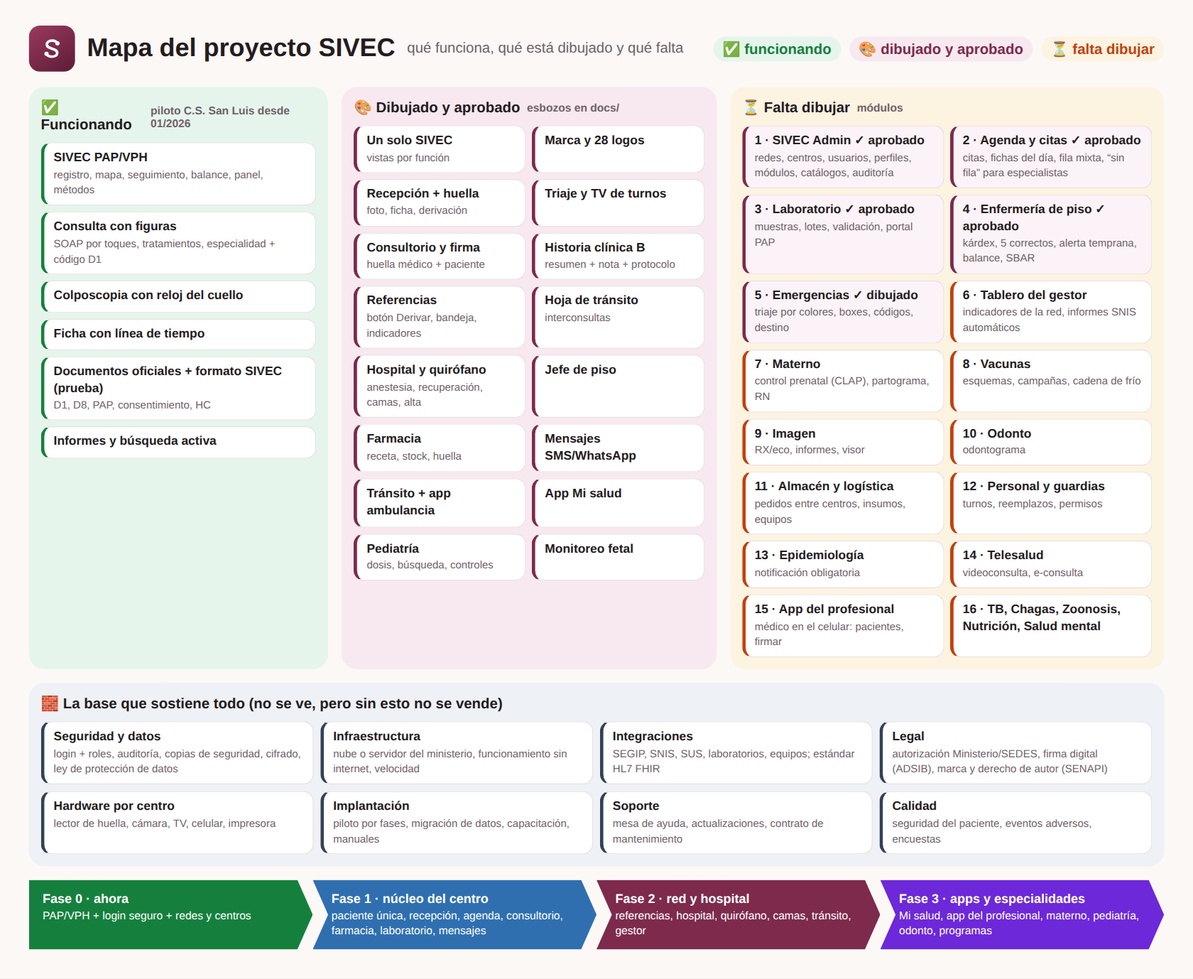
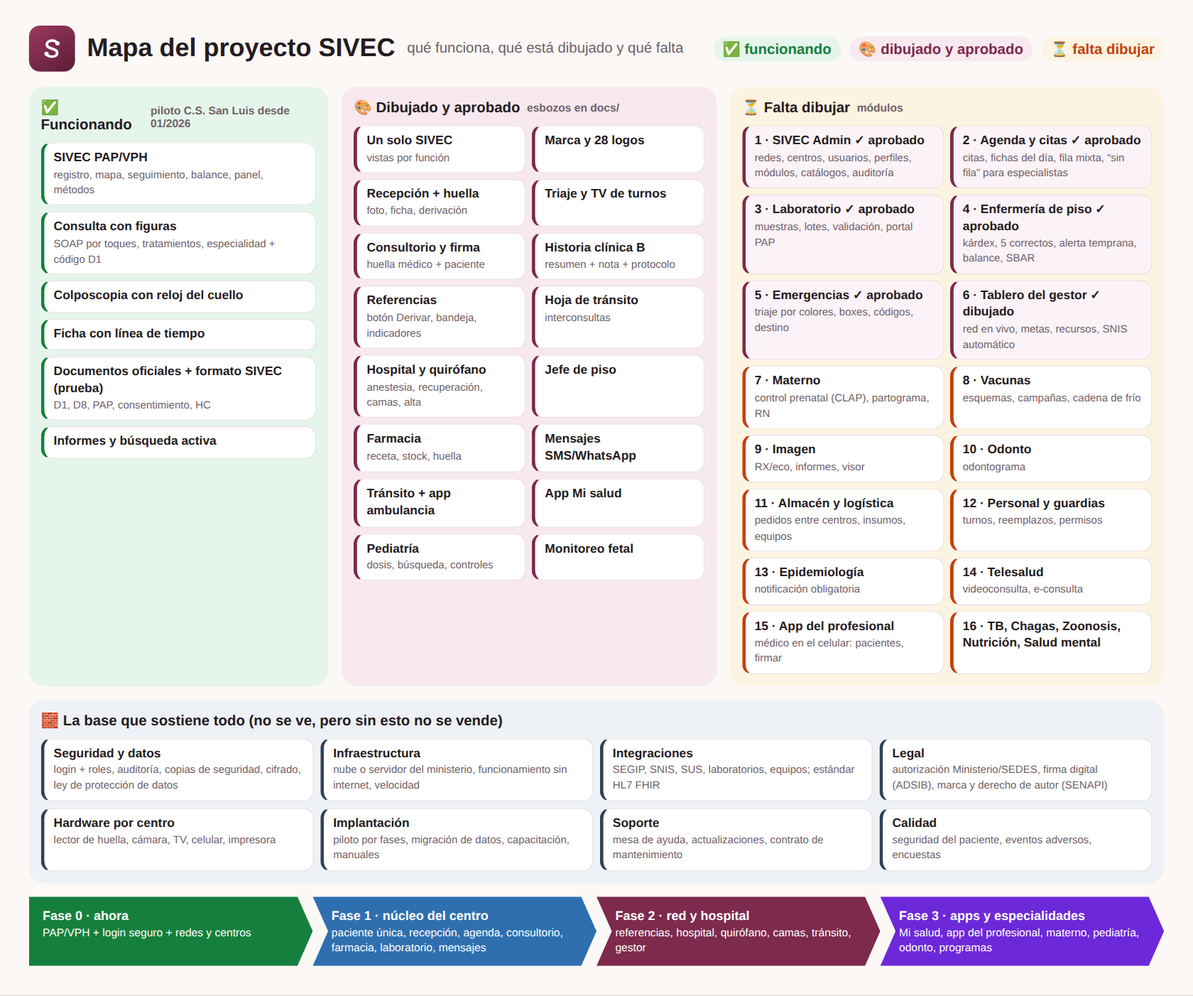
docs: módulo 6 Tablero del gestor de red (8 pantallas); Emergencias aprobado
Claude-Session: https://claude.ai/code/session_015MG6VeavRZnDbjYZyzDjvL

diff --git a/docs/esboco-gestor.html b/docs/esboco-gestor.html
@@ -1,0 +1,363 @@
+<!doctype html>
+<html lang="es">
+<head>
+<meta charset="utf-8">
+<meta name="viewport" content="width=device-width, initial-scale=1">
+<title>SIVEC Gestor de red</title>
+<link href="https://fonts.googleapis.com/css2?family=Source+Sans+3:wght@400;600;700;800;900&display=swap" rel="stylesheet">
+<style>
+  :root { --wine:#7d2a4c; --wine-d:#5a1c36; --ink:#2d2429; --soft:#7a6a71; --line:#eadde3; --paper:#faf6f4; --tint:#f7e9ef;
+    --n1:#2f6fb0; --n2:#0e7490; --n3:#7c3aed; --n4:#b4235a; --ok:#15803d; --okbg:#dcf3e5; --warn:#8a5a00; --warnbg:#fdf0d5; --bad:#991b1b; --badbg:#fde2e2; }
+  * { box-sizing:border-box; }
+  body { margin:0; background:#e8e2e5; font-family:"Source Sans 3","Segoe UI",Arial,sans-serif; color:var(--ink); }
+  .topbar { position:sticky; top:0; z-index:5; background:#2a1720; color:#fff; display:flex; flex-wrap:wrap; gap:8px; align-items:center; padding:12px 16px; }
+  .topbar b { margin-right:6px; font-size:15px; }
+  .tab { font:inherit; font-size:14px; font-weight:600; border:1px solid #6b4a58; background:transparent; color:#fff; border-radius:999px; padding:6px 14px; cursor:pointer; }
+  .tab.on { background:#fff; color:var(--wine-d); border-color:#fff; }
+  .warn { max-width:1100px; margin:14px auto 0; background:#fff7e0; border:1px solid #ecd9a0; border-radius:10px; padding:10px 14px; font-size:14px; color:#5b4712; }
+  .scr { display:none; max-width:1100px; margin:14px auto 30px; background:var(--paper); border-radius:14px; overflow:hidden; box-shadow:0 6px 28px rgba(0,0,0,.14); }
+  .scr.on { display:block; }
+  .app { background:linear-gradient(135deg,#6d2142,#9c3a5f); color:#fff; display:flex; align-items:center; justify-content:space-between; padding:14px 22px; }
+  .app .brand { font-weight:800; font-size:20px; letter-spacing:.04em; } .app .brand span { font-size:11px; background:#fff; color:var(--wine-d); border-radius:999px; padding:2px 8px; margin-left:8px; vertical-align:3px; letter-spacing:.08em; }
+  .app .who { font-size:14px; opacity:.95; }
+  .body { padding:18px 22px 22px; }
+  h2 { margin:0 0 4px; font-size:20px; } .sub { color:var(--soft); font-size:14px; margin-bottom:14px; }
+  .card { background:#fff; border:1px solid var(--line); border-radius:12px; padding:14px 16px; }
+  .cols { display:grid; gap:14px; } .c2 { grid-template-columns:1fr 1fr; } .c3 { grid-template-columns:1fr 1fr 1fr; } .c21 { grid-template-columns:1.6fr 1fr; }
+  .lbl { font-size:11.5px; font-weight:700; letter-spacing:.05em; text-transform:uppercase; color:var(--soft); margin:10px 0 5px; }
+  .lbl:first-child { margin-top:0; }
+  .chips { display:flex; flex-wrap:wrap; gap:6px; }
+  .chip { font-size:13px; padding:5px 11px; border-radius:999px; border:1px solid var(--line); background:#fff; }
+  .chip.on { background:var(--tint); border-color:var(--wine); color:var(--wine-d); font-weight:700; }
+  .inp { border:1px solid var(--line); border-radius:8px; padding:8px 10px; font-size:13.5px; background:#fff; min-height:36px; }
+  .inp.tall { min-height:62px; line-height:1.45; }
+  .pri { display:grid; grid-template-columns:repeat(4,1fr); gap:8px; }
+  .pri div { border:1px solid var(--line); border-radius:10px; padding:8px 10px; font-size:12.5px; background:#fff; }
+  .pri div b { display:block; font-size:14px; } .pri div.on { border:2px solid var(--wine); background:var(--tint); }
+  .dot { display:inline-block; width:10px; height:10px; border-radius:50%; margin-right:6px; vertical-align:0; }
+  .auto { background:#f3f7fb; border:1px dashed #b9cde3; border-radius:10px; padding:10px 12px; font-size:13px; line-height:1.55; }
+  .auto b { color:#1e4f8a; }
+  .att { display:flex; flex-wrap:wrap; gap:6px; margin-top:6px; } .att span { font-size:12.5px; background:#fff; border:1px solid var(--line); border-radius:8px; padding:4px 9px; }
+  .btn { display:inline-flex; align-items:center; gap:6px; font:inherit; font-size:13.5px; font-weight:700; border-radius:9px; padding:8px 14px; border:1px solid var(--line); background:#fff; color:var(--ink); }
+  .btn.p { background:var(--wine); border-color:var(--wine); color:#fff; } .btn.g { background:var(--ok); border-color:var(--ok); color:#fff; }
+  .row { display:flex; gap:8px; flex-wrap:wrap; align-items:center; }
+  .fp { width:26px; height:30px; vertical-align:middle; }
+  table.l { width:100%; border-collapse:collapse; font-size:13.5px; background:#fff; border-radius:12px; overflow:hidden; }
+  table.l th { text-align:left; font-size:11px; letter-spacing:.05em; text-transform:uppercase; color:var(--soft); padding:9px 10px; border-bottom:1px solid var(--line); background:#fff; }
+  table.l td { padding:10px; border-bottom:1px solid var(--line); vertical-align:middle; }
+  .st { font-size:11.5px; font-weight:700; border-radius:999px; padding:2px 9px; white-space:nowrap; }
+  .st.bad { background:var(--badbg); color:var(--bad); } .st.warn { background:var(--warnbg); color:var(--warn); } .st.ok { background:var(--okbg); color:var(--ok); } .st.info { background:#e0ecfa; color:#1e4f8a; } .st.mut { background:#eee; color:#555; }
+  .lvl { font-size:11px; font-weight:800; color:#fff; border-radius:6px; padding:2px 7px; }
+  .mini { font-size:12px; color:var(--soft); }
+  .note { max-width:1100px; margin:-16px auto 30px; background:#fff; border-radius:10px; padding:12px 16px; font-size:14px; line-height:1.5; color:#3b3035; border-left:4px solid var(--wine); }
+  /* flujo */
+  .levels { display:grid; grid-template-columns:repeat(4,1fr); gap:0; position:relative; margin:6px 0 4px; }
+  .lv { text-align:center; padding:0 8px; }
+  .lv .ic { width:74px; height:74px; border-radius:18px; margin:0 auto 6px; display:flex; align-items:center; justify-content:center; font-size:32px; color:#fff; }
+  .lv b { display:block; font-size:15px; } .lv span { font-size:12.5px; color:var(--soft); }
+  .arrows { position:relative; height:74px; margin-top:-120px; margin-bottom:60px; pointer-events:none; }
+  .loop { display:grid; grid-template-columns:repeat(7,1fr); gap:6px; margin-top:6px; }
+  .loop div { background:#fff; border:1px solid var(--line); border-radius:10px; padding:8px; font-size:12.3px; text-align:center; position:relative; }
+  .loop div b { display:block; font-size:13px; } .loop i { font-style:normal; display:block; font-size:18px; }
+  .loop div:not(:last-child)::after { content:"›"; position:absolute; right:-10px; top:50%; transform:translateY(-50%); color:var(--soft); font-size:18px; }
+  .world { display:grid; grid-template-columns:repeat(5,1fr); gap:8px; }
+  .world div { background:#fff; border:1px solid var(--line); border-radius:10px; padding:9px 10px; font-size:12.3px; line-height:1.4; }
+  .world b { display:block; font-size:13px; color:var(--wine-d); }
+  /* seguimiento */
+  .steps { display:grid; grid-template-columns:repeat(7,1fr); gap:0; margin:8px 0 4px; }
+  .steps div { text-align:center; font-size:12px; position:relative; padding-top:30px; }
+  .steps div::before { content:""; position:absolute; top:9px; left:0; right:0; height:4px; background:#e3d6dc; }
+  .steps div:first-child::before { left:50%; } .steps div:last-child::before { right:50%; }
+  .steps div.done::before { background:var(--ok); } .steps div.cur::before { background:linear-gradient(90deg,var(--ok) 50%,#e3d6dc 50%); }
+  .steps i { position:absolute; top:0; left:50%; transform:translateX(-50%); width:22px; height:22px; border-radius:50%; background:#e3d6dc; color:#fff; font-style:normal; font-size:12px; font-weight:800; display:flex; align-items:center; justify-content:center; border:3px solid var(--paper); }
+  .steps .done i { background:var(--ok); } .steps .cur i { background:var(--wine); box-shadow:0 0 0 4px rgba(125,42,76,.18); }
+  .steps b { display:block; font-size:12.5px; } .steps small { color:var(--soft); }
+  .tl { border-left:3px solid var(--line); margin-left:8px; padding-left:14px; }
+  .tl div { position:relative; font-size:13px; margin-bottom:10px; line-height:1.4; }
+  .tl div::before { content:""; position:absolute; left:-21px; top:4px; width:11px; height:11px; border-radius:50%; background:var(--c,#999); border:2px solid #fff; }
+  .kpi { display:grid; grid-template-columns:repeat(4,1fr); gap:10px; }
+  .kpi div { background:#fff; border:1px solid var(--line); border-radius:12px; padding:12px 14px; }
+  .kpi small { display:block; font-size:12px; color:var(--soft); font-weight:600; } .kpi b { font-size:28px; letter-spacing:-.01em; } .kpi span { font-size:12px; color:var(--soft); }
+  .bars div.r { display:grid; grid-template-columns:170px 1fr 54px; align-items:center; gap:10px; font-size:13px; margin:7px 0; }
+  .bars .trk { height:14px; border-radius:0 4px 4px 0; background:transparent; position:relative; }
+  .bars .fill { height:14px; border-radius:0 4px 4px 0; background:var(--wine); }
+  .bars .ref { position:absolute; top:-3px; bottom:-3px; width:2px; background:#2d2429; }
+  .bars .v { font-weight:700; text-align:right; }
+  .alertc { border-left:4px solid var(--bad); }
+
+  .role .rh { display:flex; gap:10px; align-items:center; margin-bottom:8px; } .role .rh b { display:block; font-size:15px; } .role .rh small { color:var(--soft); font-size:12px; }
+  .ri { width:40px; height:40px; border-radius:11px; display:flex; align-items:center; justify-content:center; font-size:20px; }
+  .todo { display:flex; align-items:center; gap:10px; font-size:13.5px; padding:6px 0; border-bottom:1px dashed var(--line); } .todo:last-child { border-bottom:none; }
+  .todo .st { min-width:30px; text-align:center; font-size:13px; }
+  .mini2 { font-size:13px; line-height:1.5; } .mini2 b { display:block; margin-bottom:2px; }
+  .flowbar { display:flex; gap:6px; margin-bottom:12px; } .flowbar span { flex:1; text-align:center; font-size:13px; font-weight:700; padding:7px; border-radius:9px; background:#fff; border:1px solid var(--line); color:var(--soft); }
+  .flowbar span.on { background:var(--okbg); color:var(--ok); border-color:#b8e3c7; } .flowbar span.cur { background:var(--wine); color:#fff; border-color:var(--wine); }
+  .found { display:flex; gap:12px; align-items:center; margin-top:10px; padding:10px; border-radius:10px; background:#f3f9f5; border:1px solid #cfe9d8; }
+  .photo2 { width:64px; height:72px; border-radius:10px; background:var(--tint); display:flex; align-items:center; justify-content:center; font-size:24px; flex:none; }
+  .k2 { display:block; font-size:10.5px; font-weight:700; color:var(--soft); text-transform:uppercase; letter-spacing:.04em; }
+  .scanner { width:150px; height:160px; margin:6px auto 0; border-radius:18px; background:radial-gradient(circle at 50% 45%, #fff 0, #f7e9ef 70%); border:3px solid #d9b9c6; display:flex; align-items:center; justify-content:center; box-shadow: inset 0 -6px 12px rgba(125,42,76,.12); }
+  .ticket { margin-top:12px; text-align:center; }
+  .tk { border:2px dashed var(--wine); border-radius:12px; padding:10px; display:flex; flex-direction:column; gap:2px; font-size:13.5px; } .tk b { font-size:40px; color:var(--wine-d); letter-spacing:.04em; line-height:1.1; } .tk small { color:var(--soft); font-size:11.5px; }
+  .q2 { padding:8px 10px; border:1px solid var(--line); border-radius:9px; margin-bottom:6px; font-size:13.5px; background:#fff; display:flex; flex-wrap:wrap; gap:4px 8px; align-items:center; } .q2 .mini { width:100%; }
+  .q2.cur { border:2px solid var(--wine); background:var(--tint); } .q2 .st { margin-left:auto; }
+  .vit2 { display:grid; grid-template-columns:repeat(4,1fr); gap:6px; } .vit2 div { background:#fff; border:1px solid var(--line); border-radius:8px; padding:5px 8px; font-size:16px; font-weight:800; } .vit2 small { display:block; font-size:10.5px; color:var(--soft); font-weight:700; text-transform:uppercase; }
+  .tv { background:#120810; border-radius:16px; padding:14px; color:#fff; border:8px solid #2a2a2a; box-shadow:0 10px 30px rgba(0,0,0,.35); display:flex; flex-direction:column; gap:10px; }
+  .tvh { display:flex; justify-content:space-between; font-size:13px; color:#cfb7c2; font-weight:700; letter-spacing:.08em; }
+  .tvnow { background:linear-gradient(135deg,#7d2a4c,#b4235a); border-radius:12px; padding:16px; text-align:center; } .tvnow small { display:block; font-size:13px; letter-spacing:.2em; font-weight:800; color:#ffe4ee; }
+  .tvnow b { display:block; font-size:64px; line-height:1.05; letter-spacing:.04em; } .tvnow span { display:block; font-size:24px; font-weight:700; } .tvnow em { display:block; font-style:normal; font-size:20px; margin-top:4px; color:#ffe4ee; }
+  .tvlist div { display:flex; gap:12px; align-items:baseline; font-size:18px; padding:6px 4px; border-bottom:1px solid #3a2530; } .tvlist b { color:#f1a7c3; min-width:70px; } .tvlist span { margin-left:auto; color:#cfb7c2; font-size:15px; }
+  .tvf { font-size:13px; color:#cfb7c2; }
+  .doc { display:grid; grid-template-columns:34px 1fr auto auto; gap:10px; align-items:center; padding:9px 4px; border-bottom:1px solid var(--line); font-size:13.5px; } .di { font-size:22px; text-align:center; } .dest { font-size:12.5px; color:var(--soft); font-weight:600; }
+  .st.warn { margin:0; max-width:none; padding:2px 9px; border:none; font-size:11.5px; }
+  .todo .st.warn { font-size:13px; }
+
+  .svc { display:flex; flex-wrap:wrap; gap:8px; } .svc span { background:#fff; border:1px solid var(--line); border-radius:10px; padding:7px 12px; font-size:13.5px; font-weight:600; }
+  .prob { display:flex; align-items:center; gap:8px; font-size:13.5px; padding:6px 0; border-bottom:1px dashed var(--line); } .prob .mini { margin-left:auto; }
+  .dotc { width:10px; height:10px; border-radius:50%; flex:none; }
+  .tpl { border:1px solid; border-left-width:5px; border-radius:10px; padding:9px 11px; font-size:13px; line-height:1.45; background:#fff; } .tpl b { display:block; font-size:14px; margin-bottom:2px; }
+  .opt { display:grid; grid-template-columns:repeat(3,1fr); gap:8px; } .opt span { border:1px solid var(--line); border-radius:12px; padding:10px; font-size:22px; background:#fff; text-align:center; } .opt b { display:block; font-size:14px; margin-top:4px; } .opt small { display:block; font-size:12px; color:var(--soft); }
+  .opt .sel { border:2px solid var(--wine); background:var(--tint); }
+  .side { border-left:4px solid var(--line); padding:5px 10px; margin-bottom:8px; font-size:13.5px; line-height:1.45; } .side b { display:block; }
+  .stk { display:grid; grid-template-columns:150px 1fr auto; gap:8px; align-items:center; font-size:13px; margin:6px 0; } .stk div { height:10px; background:#eee4e8; border-radius:5px; overflow:hidden; } .stk i { display:block; height:100%; background:#15803d; border-radius:5px; } .stk b { font-size:12.5px; }
+  .phn { background:#e5ddd5; border:9px solid #1f1f1f; border-radius:26px; padding:10px; display:flex; flex-direction:column; gap:8px; min-height:430px; }
+  .phh { background:#075e54; color:#fff; font-size:13px; font-weight:700; margin:-10px -10px 4px; padding:10px 12px; border-radius:16px 16px 0 0; }
+  .msg { font-size:13px; line-height:1.4; border-radius:10px; padding:7px 9px; max-width:88%; box-shadow:0 1px 1px rgba(0,0,0,.12); } .msg.in { background:#fff; align-self:flex-start; } .msg.out { background:#dcf8c6; align-self:flex-end; font-weight:800; }
+  .ck { font-size:13.5px; line-height:1.45; } .ck b { display:block; font-size:15px; margin-bottom:3px; }
+
+  .kv2 { display:flex; justify-content:space-between; gap:10px; font-size:13.5px; padding:4px 0; border-bottom:1px dashed var(--line); } .kv2 span { color:var(--soft); }
+  .req { display:flex; flex-wrap:wrap; gap:6px; } .req span { font-size:12.5px; font-weight:700; border-radius:8px; padding:4px 9px; } .req .ok { background:var(--okbg); color:var(--ok); } .req .no { background:var(--warnbg); color:var(--warn); }
+  .qx { position:relative; height:30px; background:#f3eef0; border-radius:8px; margin:6px 0; padding-left:34px; } .qx b { position:absolute; left:8px; top:6px; font-size:13px; }
+  .qx span { position:absolute; top:3px; bottom:3px; margin-left:34px; border-radius:6px; color:#fff; font-size:11.5px; font-weight:700; display:flex; align-items:center; padding:0 6px; white-space:nowrap; overflow:hidden; }
+  .who2 { display:grid; gap:6px; } .who2 div { border:1px solid var(--line); border-radius:8px; padding:6px 9px; background:#f7fbf8; font-size:12.5px; } .who2 b { display:block; color:var(--wine-d); font-size:11.5px; text-transform:uppercase; letter-spacing:.05em; } .who2 span { color:#166534; }
+  .beds { display:grid; grid-template-columns:repeat(5,1fr); gap:8px; }
+  .bed { border-radius:10px; padding:8px; font-size:13px; font-weight:700; border:1px solid var(--line); min-height:76px; } .bed b { display:block; font-size:18px; } .bed small { display:block; font-weight:500; font-size:11.5px; color:var(--soft); }
+  .bed.p { background:#fbe4ee; } .bed.a { background:#fde2e2; } .bed.g { background:#ede4fb; } .bed.free { background:#ecf8f1; color:#15803d; } .bed.clean { background:#fdf0d5; color:#8a5a00; } .bed.sel { outline:3px solid var(--wine); }
+  .leg2 { display:inline-block; width:12px; height:12px; border-radius:3px; vertical-align:-2px; margin-left:6px; border:1px solid var(--line); }
+  .dose { border:1px solid var(--line); border-radius:10px; padding:7px 9px; margin-bottom:6px; font-size:13px; display:flex; flex-direction:column; } .dose span { color:var(--soft); font-size:12px; } .dose em { font-style:normal; margin-top:2px; }
+  .srch { border-left:4px solid #c2410c; background:#fff7f0; border-radius:6px; padding:6px 9px; margin-bottom:6px; font-size:13px; } .srch b { display:block; font-size:12px; color:#c2410c; text-transform:uppercase; letter-spacing:.04em; }
+  .amb { border:9px solid #1f1f1f; border-radius:26px; background:#fff; overflow:hidden; min-height:420px; display:flex; flex-direction:column; }
+  .ah { background:#ea580c; color:#fff; font-weight:800; font-size:14px; padding:10px 12px; } .ab { padding:10px; display:flex; flex-direction:column; gap:8px; }
+  .big2 { font-size:40px; font-weight:900; text-align:center; color:#ea580c; margin-top:6px; }
+
+  .tree div { padding:6px 8px; border-radius:8px; font-size:13.5px; } .tree small { color:var(--soft); margin-left:4px; }
+  .tree .t0 { font-weight:800; } .tree .t1 { padding-left:18px; font-weight:700; } .tree .t2 { padding-left:32px; font-weight:700; } .tree .t3 { padding-left:50px; } .tree .mut { color:var(--soft); }
+  .tree .on { background:#f3eef0; } .tree .sel { background:var(--tint); outline:2px solid var(--wine); }
+  .fing { display:flex; flex-wrap:wrap; gap:6px; justify-content:center; margin-bottom:8px; } .fing span { font-size:12px; font-weight:700; border-radius:999px; padding:3px 9px; background:#f3eef0; } .fing .done { background:var(--okbg); color:var(--ok); } .fing .cur { background:var(--wine); color:#fff; }
+  table.mx td, table.mx th { text-align:center; font-size:12.5px; padding:8px 6px; } table.mx td:first-child, table.mx th:first-child { text-align:left; }
+  table.mx2 td, table.mx2 th { text-align:center; font-size:12.5px; } table.mx2 td:first-child, table.mx2 th:first-child { text-align:left; }
+  table.mx2 td.on { color:#15803d; font-size:18px; } table.mx2 td.pi { color:#c2410c; font-size:18px; } table.mx2 td { color:#c9bcc2; font-size:18px; } table.mx2 td:first-child { font-size:13.5px; color:var(--ink); }
+  .catl { padding:8px 10px; border-radius:9px; font-size:13.5px; margin-bottom:4px; display:flex; justify-content:space-between; } .catl small { color:var(--soft); } .catl.on { background:var(--tint); font-weight:700; }
+  table.mx2 { table-layout:fixed; } table.mx2 th { font-size:10px; padding:6px 3px; letter-spacing:.02em; white-space:normal; text-align:center; } table.mx2 th:first-child { width:170px; } table.mx2 td { padding:8px 3px; }
+  table.cmp td, table.cmp th { text-align:center; font-size:12.8px; } table.cmp td:first-child, table.cmp th:first-child { text-align:left; }
+  table.cmp td.g { background:#ecf8f1; color:#15803d; font-weight:700; } table.cmp td.y { background:#fdf6e3; color:#8a5a00; font-weight:700; } table.cmp td.r { background:#fdecec; color:#991b1b; font-weight:700; }
+  table.cmp tr.meta td { color:var(--soft); font-size:12px; font-style:italic; }
+  .warn2 { color:#c2410c; font-weight:700; }
+  .paper { background:#fff; border:1px solid var(--line); border-radius:6px; padding:22px 26px; box-shadow:0 6px 20px rgba(0,0,0,.08); max-width:900px; margin:0 auto; }
+  .ph2 { display:flex; justify-content:space-between; align-items:center; border-bottom:3px solid var(--wine); padding-bottom:8px; margin-bottom:12px; } .ph2 b { display:block; font-size:18px; } .ph2 span { font-size:12.5px; color:var(--soft); } .lg2 { background:var(--wine); color:#fff; font-weight:900; letter-spacing:.08em; border-radius:8px; padding:6px 12px; }
+</style>
+</head>
+<body>
+<div class="topbar"><b>ESBOZO — 6 · Tablero del gestor de red:</b>
+  <button class="tab on" data-t="t1">1. La red hoy</button>
+  <button class="tab" data-t="t2">2. Comparar centros</button>
+  <button class="tab" data-t="t3">3. Programas y metas</button>
+  <button class="tab" data-t="t4">4. Recursos en vivo</button>
+  <button class="tab" data-t="t5">5. Alertas para actuar</button>
+  <button class="tab" data-t="t6">6. Tendencias</button>
+  <button class="tab" data-t="t7">7. Informes SNIS automáticos</button>
+  <button class="tab" data-t="t8">8. Informe mensual</button>
+</div>
+<div class="warn">⚠ Dibujo para aprobar, con datos inventados. Lo usa el responsable de Red (y el SEDES para todas las redes). Ve números, no historias clínicas.</div>
+
+<!-- ============ T1 ============ -->
+<section class="scr on" id="t1">
+  <div class="app"><div class="brand">SIVEC <span>RED</span></div><div class="who">🔗 Red Centro · 12 establecimientos · jueves 24/09 · 11:00</div></div>
+  <div class="body">
+    <div class="kpi" style="grid-template-columns:repeat(6,1fr)">
+      <div><small>Atenciones hoy</small><b>1.284</b><span> ↑ 6% vs jueves pasado</span></div>
+      <div><small>Esperando ahora</small><b>212</b><span> espera media 41 min</span></div>
+      <div><small>Camas ocupadas</small><b>82%</b><span> 74 de 90</span></div>
+      <div><small>Referencias abiertas</small><b>63</b><span> 9 trabadas</span></div>
+      <div><small>Ambulancias disponibles</small><b>6/14</b></div>
+      <div><small>Medicamentos en falta</small><b>4</b><span> en 3 centros</span></div>
+    </div>
+    <div class="cols" style="grid-template-columns:1.3fr 1fr;margin-top:12px">
+      <div class="card" style="padding:8px"><div class="lbl" style="padding:6px 8px 0">Mapa de la red · semáforo por centro</div>
+        <svg viewBox="0 0 600 320" width="100%" role="img" aria-label="Mapa de centros de la red">
+          <rect width="600" height="320" rx="10" fill="#eef1ec"/>
+          <g stroke="#fff" stroke-width="9"><path d="M0 110h600M0 230h600M170 0v320M400 0v320"/></g>
+          <path d="M40 40 Q300 -10 560 60 L580 290 Q300 330 30 280 Z" fill="none" stroke="#c9b3bd" stroke-width="2" stroke-dasharray="6 6"/>
+          <g font-family="Source Sans 3, sans-serif" font-size="11.5" font-weight="700">
+            <g><circle cx="210" cy="170" r="11" fill="#15803d"/><text x="226" y="174">San Luis</text></g>
+            <g><circle cx="110" cy="80" r="11" fill="#c2410c"/><text x="126" y="84">El Bajío</text></g>
+            <g><circle cx="460" cy="90" r="11" fill="#15803d"/><text x="476" y="94">Los Lotes</text></g>
+            <g><circle cx="330" cy="260" r="11" fill="#15803d"/><text x="346" y="264">Villa 1° Mayo</text></g>
+            <g><circle cx="520" cy="220" r="11" fill="#991b1b"/><text x="470" y="250">Plan 3000</text></g>
+            <g><circle cx="90" cy="250" r="11" fill="#15803d"/><text x="106" y="254">Palmasola</text></g>
+            <g><rect x="296" y="140" width="22" height="22" rx="5" fill="#b91c1c"/><text x="324" y="156">Hosp. municipal</text></g>
+            <g><circle cx="250" cy="60" r="8" fill="#15803d"/><circle cx="420" cy="170" r="8" fill="#15803d"/><circle cx="160" cy="130" r="8" fill="#c2410c"/><circle cx="560" cy="130" r="8" fill="#15803d"/><circle cx="380" cy="40" r="8" fill="#15803d"/></g>
+          </g>
+        </svg>
+        <div class="mini" style="padding:0 8px 6px">🟢 normal · 🟠 atención (espera larga o falta de stock) · 🔴 problema (sin médico, fichas agotadas, equipo caído)</div></div>
+      <div>
+        <div class="card alertc"><div class="lbl">Qué mirar hoy</div><div style="font-size:13.5px;line-height:1.65">🔴 <b>Plan 3000:</b> 1 médico faltó, 60 personas esperando<br>🟠 <b>El Bajío:</b> sin clotrimazol y amoxicilina<br>🟠 Hospital municipal: <b>Medicina interna 100%</b> ocupada<br>🟠 9 referencias sin cita hace &gt; 3 días</div></div>
+        <div class="card" style="margin-top:12px"><div class="lbl">Qué ve y qué no</div><div style="font-size:13px;line-height:1.55">👁 Indicadores, recursos y listas agregadas.<br>🔒 No abre historias clínicas; si hace falta ver un caso (auditoría), pide acceso con motivo y queda registrado.</div></div>
+      </div>
+    </div>
+  </div>
+</section>
+
+<!-- ============ T2 ============ -->
+<section class="scr" id="t2">
+  <div class="app"><div class="brand">SIVEC <span>RED</span></div><div class="who">📊 Comparar centros · Red Centro · septiembre</div></div>
+  <div class="body">
+    <div class="card">
+      <table class="l cmp"><thead><tr><th>Establecimiento</th><th>Atenciones</th><th>Espera media</th><th>Faltas a citas</th><th>Cobertura PAP</th><th>Prenatal ≥ 4 controles</th><th>Vacunas al día &lt; 5 a</th><th>Días toma → resultado PAP</th><th>Contrarref. aplicadas</th></tr></thead><tbody>
+        <tr><td><b>C.S. San Luis</b></td><td>4.120</td><td class="g">32 min</td><td class="g">7%</td><td class="g">54%</td><td class="g">82%</td><td class="g">91%</td><td class="g">20 d</td><td class="g">94%</td></tr>
+        <tr><td><b>C.S. Los Lotes</b></td><td>3.880</td><td class="g">38 min</td><td class="g">9%</td><td class="y">41%</td><td class="g">78%</td><td class="g">88%</td><td class="g">22 d</td><td class="y">81%</td></tr>
+        <tr><td><b>C.S. El Bajío</b></td><td>3.210</td><td class="y">55 min</td><td class="r">15%</td><td class="r">28%</td><td class="y">64%</td><td class="y">76%</td><td class="r">35 d</td><td class="r">58%</td></tr>
+        <tr><td><b>C.S. Plan 3000</b></td><td>5.340</td><td class="r">1 h 20</td><td class="y">12%</td><td class="y">36%</td><td class="y">70%</td><td class="g">85%</td><td class="y">27 d</td><td class="y">77%</td></tr>
+        <tr><td><b>C.S. Villa 1° Mayo</b></td><td>2.960</td><td class="g">29 min</td><td class="g">8%</td><td class="g">49%</td><td class="g">84%</td><td class="g">93%</td><td class="g">19 d</td><td class="g">91%</td></tr>
+        <tr style="background:#f7f2f4;font-weight:700"><td>Red Centro</td><td>41.300</td><td>47 min</td><td>10%</td><td>42%</td><td>76%</td><td>87%</td><td>24 d</td><td>82%</td></tr>
+        <tr class="meta"><td>Meta</td><td>—</td><td>≤ 45 min</td><td>≤ 10%</td><td>≥ 50%</td><td>≥ 80%</td><td>≥ 90%</td><td>≤ 30 d</td><td>≥ 90%</td></tr>
+      </tbody></table>
+      <div class="mini" style="margin-top:8px">🟢 cumple la meta · 🟡 cerca · 🔴 lejos. Tocar una celda abre el detalle (sin nombres de pacientes). Las metas se configuran por red.</div>
+    </div>
+    <div class="card" style="margin-top:12px;font-size:14px;line-height:1.55">💡 <b>Lectura rápida:</b> El Bajío está lejos en casi todo → no es falta de voluntad: tiene 1 médico menos y el mensajero de lotes pasa 1 vez por semana. El tablero ayuda a <b>ver la causa</b>, no solo el número.</div>
+  </div>
+</section>
+
+<!-- ============ T3 ============ -->
+<section class="scr" id="t3">
+  <div class="app"><div class="brand">SIVEC <span>RED</span></div><div class="who">🎯 Programas de salud y metas · Red Centro · acumulado 2026</div></div>
+  <div class="body">
+    <div class="cols c2">
+      <div class="card bars"><div class="lbl">Avance hacia la meta anual (línea = meta)</div>
+        <div class="r"><span>🧾 PAP/VPH · mujeres 25–64</span><div class="trk"><div class="fill" style="width:62%"></div><div class="ref" style="left:75%"></div></div><span class="v">62%</span></div>
+        <div class="r"><span>🤰 Prenatal ≥ 4 controles</span><div class="trk"><div class="fill" style="width:76%"></div><div class="ref" style="left:80%"></div></div><span class="v">76%</span></div>
+        <div class="r"><span>🏥 Parto institucional</span><div class="trk"><div class="fill" style="width:88%"></div><div class="ref" style="left:90%"></div></div><span class="v">88%</span></div>
+        <div class="r"><span>💉 Pentavalente 3ª dosis</span><div class="trk"><div class="fill" style="width:84%"></div><div class="ref" style="left:95%"></div></div><span class="v">84%</span></div>
+        <div class="r"><span>🫁 TB · éxito de tratamiento</span><div class="trk"><div class="fill" style="width:81%"></div><div class="ref" style="left:90%"></div></div><span class="v">81%</span></div>
+        <div class="r"><span>🧸 Niño sano &lt; 2 a con control</span><div class="trk"><div class="fill" style="width:69%"></div><div class="ref" style="left:80%"></div></div><span class="v">69%</span></div>
+        <div class="mini">Escala 0–100% · proporción de lo esperado a septiembre.</div></div>
+      <div>
+        <div class="card"><div class="lbl">PAP/VPH — el programa piloto</div>
+          <div class="kv2"><span>Tomas 2026</span><b>6.840</b></div><div class="kv2"><span>Positivos (≥ ASC-US / VPH+)</span><b>512 · 7,5%</b></div><div class="kv2"><span>Positivos con colposcopia</span><b>81%</b></div><div class="kv2"><span>Positivos sin seguimiento</span><b style="color:#991b1b">97 → búsqueda activa</b></div><div class="kv2"><span>Resultados entregados</span><b>89%</b></div></div>
+        <div class="card" style="margin-top:12px"><div class="lbl">De dónde sale cada número</div><div style="font-size:13px;line-height:1.55">Del trabajo diario: tomas registradas, resultados del portal de patología, citas y contrarreferencias. <b>Nadie llena planillas</b> para el tablero.</div></div>
+      </div>
+    </div>
+  </div>
+</section>
+
+<!-- ============ T4 ============ -->
+<section class="scr" id="t4">
+  <div class="app"><div class="brand">SIVEC <span>RED</span></div><div class="who">🧰 Recursos de la red en vivo</div></div>
+  <div class="body">
+    <div class="cols c3" style="gap:12px">
+      <div class="card"><div class="lbl">🛏 Camas libres ahora</div>
+        <div class="kv2"><span>Hospital municipal · GO</span><b>2</b></div><div class="kv2"><span>Hospital municipal · Cirugía</span><b>1</b></div><div class="kv2"><span>Hospital municipal · Medicina</span><b style="color:#991b1b">0</b></div><div class="kv2"><span>C.S. San Luis (internación corta)</span><b>2</b></div><div class="kv2"><span>C.S. Plan 3000 (observación)</span><b>1</b></div>
+        <div class="mini" style="margin-top:6px">Sirve para decidir a dónde referir sin llamar a nadie.</div></div>
+      <div class="card"><div class="lbl">🚑 Ambulancias</div>
+        <div class="kv2"><span>Disponibles</span><b style="color:#15803d">6</b></div><div class="kv2"><span>En servicio</span><b>5</b></div><div class="kv2"><span>Mantenimiento</span><b>2</b></div><div class="kv2"><span>Fuera de servicio</span><b style="color:#991b1b">1</b></div><div class="kv2"><span>Tiempo medio pedido → llegada</span><b>18 min</b></div></div>
+      <div class="card"><div class="lbl">👥 Personal hoy</div>
+        <div class="kv2"><span>Médicos</span><b>38 de 41</b></div><div class="kv2"><span>Enfermeras</span><b>72 de 75</b></div><div class="kv2"><span>Faltas sin reemplazo</span><b style="color:#991b1b">Plan 3000 · 1 médico</b></div><div class="kv2"><span>Internos / residentes</span><b>46</b></div></div>
+    </div>
+    <div class="card" style="margin-top:12px"><div class="lbl">💊 Stock crítico en la red — y quién tiene de más</div>
+      <table class="l"><thead><tr><th>Medicamento</th><th>Faltan en</th><th>Sobran en</th><th>Días de stock en la red</th><th></th></tr></thead><tbody>
+        <tr><td><b>Clotrimazol óvulo</b></td><td>El Bajío (0) · San Luis (4)</td><td>Los Lotes (120)</td><td>18 d</td><td><span class="btn p">Transferir 40</span></td></tr>
+        <tr><td><b>Amoxicilina 500</b></td><td>El Bajío (0)</td><td>Hospital (900)</td><td>34 d</td><td><span class="btn p">Transferir 100</span></td></tr>
+        <tr><td><b>Sulfato ferroso</b></td><td>—</td><td>—</td><td class="warn2">9 d ⚠</td><td><span class="btn">Pedir a CEASS</span></td></tr></tbody></table></div>
+  </div>
+</section>
+
+<!-- ============ T5 ============ -->
+<section class="scr" id="t5">
+  <div class="app"><div class="brand">SIVEC <span>RED</span></div><div class="who">🔔 Alertas para actuar — el “Para hacer hoy” del gestor</div></div>
+  <div class="body">
+    <table class="l"><thead><tr><th>Prioridad</th><th>Qué pasa</th><th>Dónde</th><th>Desde</th><th>Acción sugerida</th><th>Responsable</th></tr></thead><tbody>
+      <tr><td><span class="st bad">Alta</span></td><td>Médico ausente, 60 personas esperando</td><td>C.S. Plan 3000</td><td>07:30</td><td>Mover al Dr. Tola 4 h desde San Luis</td><td>Jefe de red</td></tr>
+      <tr><td><span class="st bad">Alta</span></td><td>9 referencias sin cita &gt; 3 días</td><td>Hospital municipal · Neurología</td><td>3 días</td><td>Abrir cupos extra / e-consulta</td><td>Director hospital</td></tr>
+      <tr><td><span class="st warn">Media</span></td><td>97 PAP positivos sin seguimiento</td><td>5 centros</td><td>—</td><td>Campaña de búsqueda activa</td><td>Programa PAP</td></tr>
+      <tr><td><span class="st warn">Media</span></td><td>Clotrimazol en 0</td><td>C.S. El Bajío</td><td>ayer</td><td>Transferir desde Los Lotes</td><td>Farmacia de red</td></tr>
+      <tr><td><span class="st warn">Media</span></td><td>Heladera de vacunas a 9 °C</td><td>C.S. Palmasola</td><td>40 min</td><td>Verificar cadena de frío</td><td>Enf. vacunas</td></tr>
+      <tr><td><span class="st info">Baja</span></td><td>Tasa de rechazo de muestras 4,8%</td><td>C.S. El Bajío</td><td>septiembre</td><td>Capacitación en toma de PAP</td><td>Lab. patología</td></tr></tbody></table>
+    <div class="mini" style="margin-top:8px">Cada alerta se asigna a una persona, tiene estado (abierta → en curso → resuelta) y queda como historial de gestión.</div>
+  </div>
+</section>
+
+<!-- ============ T6 ============ -->
+<section class="scr" id="t6">
+  <div class="app"><div class="brand">SIVEC <span>RED</span></div><div class="who">📈 Tendencias · Red Centro · enero – septiembre 2026</div></div>
+  <div class="body">
+    <div class="cols c2">
+      <div class="card"><div class="lbl">Tomas de PAP/VPH por mes</div>
+        <svg viewBox="0 0 520 220" width="100%" role="img" aria-label="Tomas de PAP por mes"><g font-family="Source Sans 3" font-size="11" fill="#7a6a71"><text x="30" y="210">ene</text><text x="84" y="210">feb</text><text x="138" y="210">mar</text><text x="192" y="210">abr</text><text x="246" y="210">may</text><text x="300" y="210">jun</text><text x="354" y="210">jul</text><text x="408" y="210">ago</text><text x="462" y="210">sep</text></g>
+          <path d="M20 190H510" stroke="#e3d6dc"/>
+          <g fill="#7d2a4c"><rect x="26" y="130" width="34" height="60" rx="4"/><rect x="80" y="122" width="34" height="68" rx="4"/><rect x="134" y="110" width="34" height="80" rx="4"/><rect x="188" y="104" width="34" height="86" rx="4"/><rect x="242" y="92" width="34" height="98" rx="4"/><rect x="296" y="86" width="34" height="104" rx="4"/><rect x="350" y="70" width="34" height="120" rx="4"/><rect x="404" y="58" width="34" height="132" rx="4"/><rect x="458" y="44" width="34" height="146" rx="4"/></g>
+          <text x="475" y="38" text-anchor="middle" font-family="Source Sans 3" font-size="12" font-weight="700" fill="#2d2429">1.020</text><text x="43" y="124" text-anchor="middle" font-family="Source Sans 3" font-size="12" font-weight="700" fill="#2d2429">420</text></svg>
+        <div class="mini">+143% desde que empezó el SIVEC PAP (búsqueda activa + recordatorios).</div></div>
+      <div class="card"><div class="lbl">Días toma → resultado PAP (mediana)</div>
+        <svg viewBox="0 0 520 220" width="100%" role="img" aria-label="Días hasta el resultado del PAP"><g font-family="Source Sans 3" font-size="11" fill="#7a6a71"><text x="30" y="210">ene</text><text x="246" y="210">may</text><text x="462" y="210">sep</text><text x="4" y="64">60</text><text x="4" y="124">40</text><text x="4" y="184">20</text></g>
+          <path d="M20 60H510M20 120H510M20 180H510" stroke="#efe6ea"/><path d="M20 150H510" stroke="#15803d" stroke-dasharray="5 4"/><text x="506" y="144" text-anchor="end" font-family="Source Sans 3" font-size="11" fill="#15803d">meta 30 d</text>
+          <polyline points="43,54 97,60 151,72 205,84 259,102 313,120 367,138 421,156 475,168" fill="none" stroke="#7d2a4c" stroke-width="2.5"/><circle cx="475" cy="168" r="5" fill="#7d2a4c"/><text x="475" y="160" text-anchor="middle" font-family="Source Sans 3" font-size="12" font-weight="700" fill="#2d2429">24 d</text><text x="43" y="46" text-anchor="middle" font-family="Source Sans 3" font-size="12" font-weight="700" fill="#2d2429">62 d</text></svg>
+        <div class="mini">De 62 a 24 días con lotes con código de barras y el portal de patología.</div></div>
+    </div>
+    <div class="mini" style="margin-top:8px">Se puede filtrar por centro, programa y período. Los gráficos se descargan para presentaciones.</div>
+  </div>
+</section>
+
+<!-- ============ T7 ============ -->
+<section class="scr" id="t7">
+  <div class="app"><div class="brand">SIVEC <span>RED</span></div><div class="who">📑 Informes oficiales · se arman solos con lo que ya se registró</div></div>
+  <div class="body">
+    <table class="l"><thead><tr><th>Informe</th><th>Período</th><th>Establecimientos</th><th>Estado</th><th></th></tr></thead><tbody>
+      <tr><td><b>SNIS · Formulario 301 (producción de servicios)</b></td><td>septiembre</td><td>12 de 12 listos</td><td><span class="st ok">listo para enviar</span></td><td><span class="btn">👁 Revisar</span> <span class="btn p">📤 Enviar</span></td></tr>
+      <tr><td><b>SNIS · Formulario 302 (vigilancia epidemiológica semanal)</b></td><td>semana 39</td><td>11 de 12</td><td><span class="st warn">falta Palmasola</span></td><td><span class="btn">Recordar al centro</span></td></tr>
+      <tr><td><b>Prestaciones SUS</b> (para reembolso)</td><td>septiembre</td><td>12 de 12</td><td><span class="st ok">listo · 38.412 prestaciones</span></td><td><span class="btn p">📤 Exportar</span></td></tr>
+      <tr><td><b>Programa de cáncer de cuello uterino</b></td><td>3er trimestre</td><td>12 de 12</td><td><span class="st ok">listo</span></td><td><span class="btn p">📄 PDF</span></td></tr>
+      <tr><td><b>Notificación inmediata</b> (dengue, sarampión…)</td><td>en el momento</td><td>—</td><td><span class="st info">2 enviadas esta semana</span></td><td></td></tr>
+      <tr><td><b>Informe mensual de la red</b> (para dirección)</td><td>septiembre</td><td>—</td><td><span class="st ok">listo</span></td><td><span class="btn p">📄 Ver</span></td></tr></tbody></table>
+    <div class="cols c3" style="margin-top:12px;gap:12px">
+      <div class="card mini2"><b>Antes</b>cada centro cuenta a mano, llena planillas, las lleva a la red; la red las suma. Días de trabajo y errores.</div>
+      <div class="card mini2"><b>Con el SIVEC</b>los números salen del trabajo diario. El jefe revisa, corrige si hace falta, <b>firma con huella</b> y envía.</div>
+      <div class="card mini2"><b>Control</b>si un número cambia mucho respecto al mes anterior, el sistema lo marca para revisar antes de enviar.</div>
+    </div>
+  </div>
+</section>
+
+<!-- ============ T8 ============ -->
+<section class="scr" id="t8">
+  <div class="app"><div class="brand">SIVEC <span>RED</span></div><div class="who">📄 Informe mensual de la red · septiembre 2026 · vista de impresión</div></div>
+  <div class="body">
+    <div class="paper">
+      <div class="ph2"><div><b>Red de Salud Centro — Informe mensual</b><span>Septiembre 2026 · generado por SIVEC · 01/10/2026</span></div><div class="lg2">SIVEC</div></div>
+      <div class="kpi" style="grid-template-columns:repeat(4,1fr)"><div><small>Atenciones</small><b>41.300</b><span> +4%</span></div><div><small>Espera media</small><b>47 min</b><span> −8 min</span></div><div><small>Referencias</small><b>412</b><span> 82% contrarref.</span></div><div><small>PAP tomados</small><b>1.020</b><span> +22%</span></div></div>
+      <div class="cols c2" style="margin-top:10px">
+        <div><div class="lbl">Logros</div><div style="font-size:13px;line-height:1.6">✓ Resultado de PAP en 24 días (meta 30)<br>✓ 94% de dosis a tiempo en piso GO<br>✓ 72% de citas confirmadas por WhatsApp</div></div>
+        <div><div class="lbl">Problemas y acciones</div><div style="font-size:13px;line-height:1.6">⚠ El Bajío: 15% de faltas → recordatorios + visitas<br>⚠ Neurología: 24 días de espera → e-consulta<br>⚠ Turno noche sobrecargado → revisar dotación</div></div>
+      </div>
+      <div class="mini" style="margin-top:10px">3 hojas: resumen · centros (tabla comparativa) · programas. Firma del responsable de red 🖐. Se imprime o se envía en PDF.</div>
+    </div>
+  </div>
+</section>
+
+<div class="note" id="note"></div>
+<script>
+  const NOTES = {
+    t1: '<b>A rede hoje:</b> números do dia (atendimentos, espera, camas, referências, ambulâncias, faltas de remédio), mapa com semáforo por centro e o que olhar hoje. O gestor vê números, não histórias clínicas.',
+    t2: '<b>Comparar centros:</b> tabela com os indicadores principais de cada centro contra a meta (verde, amarelo, vermelho), para ver onde ajudar e entender a causa.',
+    t3: '<b>Programas e metas:</b> avanço de PAP/VPH, pré-natal, parto institucional, vacinas, TB e criança sadia contra a meta anual; detalhe do programa PAP (positivos sem seguimento → busca ativa).',
+    t4: '<b>Recursos ao vivo:</b> camas livres em toda a rede, ambulâncias, pessoal do dia e estoque crítico com quem tem de sobra, para transferir com um toque.',
+    t5: '<b>Alertas para agir:</b> o “Para hacer hoy” do gestor, com prioridade, ação sugerida e responsável; cada alerta tem estado até ser resolvido.',
+    t6: '<b>Tendências:</b> evolução mês a mês (ex.: tomas de PAP e dias até o resultado), com filtros e download para apresentações.',
+    t7: '<b>Informes SNIS automáticos:</b> SNIS 301 e 302, prestações SUS, programa de câncer de colo, notificação imediata e informe mensal saem do trabalho diário; o chefe revisa, assina com digital e envia. Números estranhos são marcados antes de enviar.',
+    t8: '<b>Informe mensal:</b> 3 folhas para a direção (resumo, centros e programas), com logros, problemas e ações, pronto para imprimir ou enviar em PDF.',
+  };
+  const tabs = document.querySelectorAll('.tab');
+  function show(t) { tabs.forEach(b => b.classList.toggle('on', b.dataset.t === t)); document.querySelectorAll('.scr').forEach(s => s.classList.toggle('on', s.id === t)); document.getElementById('note').innerHTML = NOTES[t]; }
+  tabs.forEach(b => b.onclick = () => show(b.dataset.t));
+  show(location.hash.slice(1) || 't1');
+</script>
+
+</body>
+</html>

diff --git a/docs/mapa-projeto.html b/docs/mapa-projeto.html
@@ -73,8 +73,8 @@
         <div class="it" style="border-left-color:#7d2a4c;background:#fbf3f7"><b>2 · Agenda y citas ✓ aprobado</b><span>citas, fichas del día, fila mixta, “sin fila” para especialistas</span></div>
         <div class="it" style="border-left-color:#7d2a4c;background:#fbf3f7"><b>3 · Laboratorio ✓ aprobado</b><span>muestras, lotes, validación, portal PAP</span></div>
         <div class="it" style="border-left-color:#7d2a4c;background:#fbf3f7"><b>4 · Enfermería de piso ✓ aprobado</b><span>kárdex, 5 correctos, alerta temprana, balance, SBAR</span></div>
-        <div class="it" style="border-left-color:#7d2a4c;background:#fbf3f7"><b>5 · Emergencias ✓ dibujado</b><span>triaje por colores, boxes, códigos, destino</span></div>
-        <div class="it"><b>6 · Tablero del gestor</b><span>indicadores de la red, informes SNIS automáticos</span></div>
+        <div class="it" style="border-left-color:#7d2a4c;background:#fbf3f7"><b>5 · Emergencias ✓ aprobado</b><span>triaje por colores, boxes, códigos, destino</span></div>
+        <div class="it" style="border-left-color:#7d2a4c;background:#fbf3f7"><b>6 · Tablero del gestor ✓ dibujado</b><span>red en vivo, metas, recursos, SNIS automático</span></div>
         <div class="it"><b>7 · Materno</b><span>control prenatal (CLAP), partograma, RN</span></div>
         <div class="it"><b>8 · Vacunas</b><span>esquemas, campañas, cadena de frío</span></div>
         <div class="it"><b>9 · Imagen</b><span>RX/eco, informes, visor</span></div>

diff --git a/docs/SIVEC-ideias-proposta.md b/docs/SIVEC-ideias-proposta.md
@@ -448,3 +448,13 @@ Respostas às 5 decisões pendentes de Redes/centros ficam propostas no desenho:
 6. Destino: alta, observação (≤ 24 h), quirófano, internar ou referir — cada um abre o formulário certo.
 7. Indicadores: chegada→triagem, atendidos a tempo por cor, foram embora, estância > 24 h, consultas não urgentes por centro de origem.
 - **Esclarecimento do autor — mesmo padrão na emergência** (`emergencias-07.png`): emergência também tem **recepção e triagem** (recepção → triagem → atendimento), como em todo o SIVEC. Vermelho entra direto no choque e a recepção completa os dados depois. Paciente inconsciente/sem documento: registro **NN** (ex.: "NN-0923 · mulher · ~40 anos") e união à história quando identificado (auditada). **Casos direto ao quirófano ficam inteiros na linha do tempo**: ambulância, recepção, triagem, choque, solicitação, entrada e saída do quirófano, recuperação/UTI e piso, com hora, lugar e responsável; tempo chegada→quirófano medido sozinho.
+
+### [24/09/2026] Módulo 5 · Emergências — APROVADO. Módulo 6 · Painel do gestor de rede — DESENHADO (`docs/esboco-gestor.html`, `gestor-01..08.png`)
+1. A rede hoje: números do dia, mapa com semáforo por centro, "o que olhar hoje"; o gestor vê números, não histórias (acesso a caso só com motivo e auditoria).
+2. Comparar centros: indicadores × meta (verde/amarelo/vermelho) e leitura da causa.
+3. Programas e metas: PAP/VPH, pré-natal, parto institucional, vacinas, TB, criança sadia; detalhe do PAP (positivos sem seguimento → busca ativa).
+4. Recursos ao vivo: camas livres da rede, ambulâncias, pessoal do dia, estoque crítico com transferência entre centros com um toque.
+5. Alertas para agir ("Para hacer hoy" do gestor) com responsável e estado.
+6. Tendências mês a mês (tomas de PAP, dias até resultado) com filtros e download.
+7. **Informes automáticos**: SNIS 301 e 302, prestações SUS, programa de câncer de colo, notificação imediata, informe mensal — saem do trabalho diário; o chefe revisa, assina com digital e envia; números fora do padrão são marcados antes.
+8. Informe mensal da rede (3 folhas: resumo, centros, programas) em PDF.
